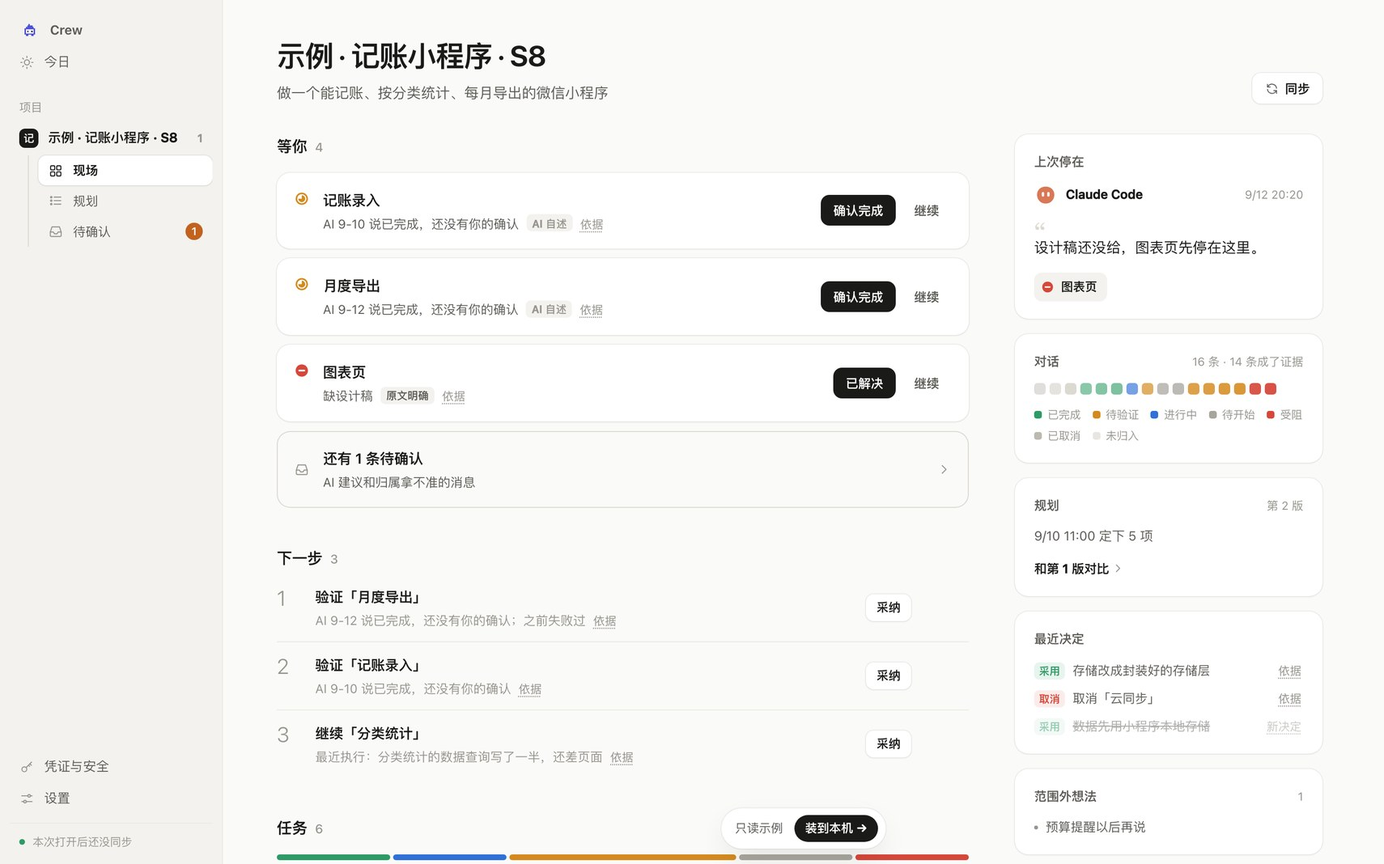
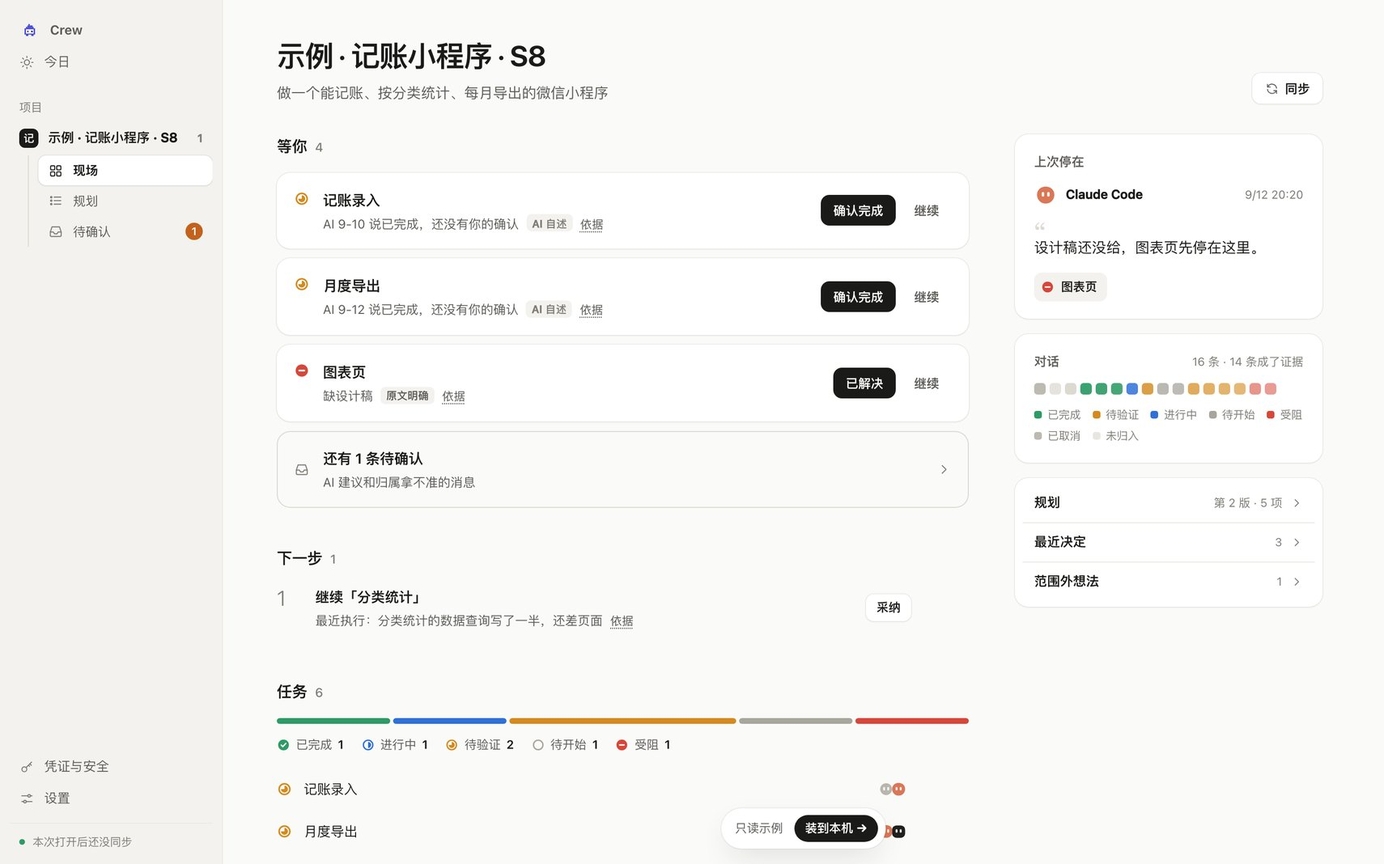
fix(web): one ask per task, quieter dock, readable secondary text
- overview: next steps skip tasks already waiting on you; plan, decisions and ideas fold into one card
- team dock: hidden on today/settings/new; idle members show only avatars, state text only when someone needs you
- raise --ink-3 contrast in light and dark; reasons and evidence links use --ink-2
- task page: 确认完成 is the primary action for to-verify tasks
- team page: before start, only the goal and start button
- workspace: no toolbar or session chrome until a directory or session exists
- settings: unbound directories show name first, one bind target, extra rows folded
- plan/inbox: no repeated AI labels; short inbox actions sit inline
- today: no duplicate no-source notice; security: usage notes folded
- board: selected row keeps a visible action button

diff --git a/web/app.js b/web/app.js
@@ -191,7 +191,8 @@ async function load() {
   else if (r.page === 'inbox') main.innerHTML = renderInbox();
   else main.innerHTML = renderOverview();
   const dock = document.getElementById('crew-team-dock');
-  dock.hidden = STATIC || !data || r.page === 'today'; document.body.classList.toggle('crew-has-team-dock', !dock.hidden);
+  // 团队栏只跟着项目页走；今日、设置、新建项目页不显示
+  dock.hidden = STATIC || !data || ['today', 'settings', 'new'].includes(r.page) || !app.projects.length; document.body.classList.toggle('crew-has-team-dock', !dock.hidden);
   if (!dock.hidden) unmountDock = mountTeamDock(dock, { projectId: pid, api, toast });
   drawBand();
 }
@@ -267,7 +268,9 @@ function renderOverview() {
   const needs = [...byStatus('to_verify'), ...byStatus('blocked')];
   const active = view.tasks.filter((t) => t.status !== 'cancelled').sort((a, b) => ORDER.indexOf(a.status) - ORDER.indexOf(b.status));
   const cancelled = byStatus('cancelled');
-  const next = view.next.filter((n) => !later.has(n.key));
+  // 已经在「等你」里的任务不再出现在下一步，同一件事只问一次
+  const asked = new Set(needs.map((t) => t.id));
+  const next = view.next.filter((n) => !later.has(n.key) && !asked.has(n.taskId));
   const today = new Date().toDateString();
   const doneToday = view.doneEvents.filter((d) => new Date(d.at).toDateString() === today).length;
   const pending = view.pending.length;
@@ -314,12 +317,11 @@ function renderOverview() {
         ${lastTask ? `<a class="who-task" href="#/p/${pid}/task/${esc(short(lastTask.id))}">${stIcon(lastTask.status)}${esc(lastTask.name)}</a>` : ''}
       </section>` : ''}
       ${bandHtml()}
-      <section class="card">
-        <h3 class="card-h">规划${plan ? `<span class="card-r">第 ${plan.n} 版${plan.backfilled ? ' · 后补' : ''}</span>` : ''}</h3>
-        ${plan ? `<p class="card-p">${fmt(plan.at)} 定下 ${plan.items.filter((it) => it.change !== 'cancelled').length} 项</p><a class="go" href="#/p/${pid}/plan">${view.plan.versions.length > 1 ? `和第 1 版对比` : '查看规划'}${ic('chev')}</a>` : `<p class="card-p">读到的记录里没有明确规划</p><a class="go" href="#/p/${pid}/plan">补建规划${ic('chev')}</a>`}
+      <section class="card notes">
+        <a class="note-row" href="#/p/${pid}/plan"><span>规划</span><span class="card-r">${plan ? `第 ${plan.n} 版${plan.backfilled ? ' · 后补' : ''} · ${plan.items.filter((it) => it.change !== 'cancelled').length} 项` : '还没有'}</span>${ic('chev')}</a>
+        ${view.decisions.length ? `<details class="note-more"><summary><span>最近决定</span><span class="card-r">${Math.min(view.decisions.length, 5)}</span>${ic('chev')}</summary><ul class="decs">${view.decisions.slice(-5).reverse().map((d) => `<li class="${d.supersededBy ? 'old' : ''}"><span class="dk dk-${d.kind}">${d.kind === 'adopt' ? '采用' : d.kind === 'reject' ? '否决' : '取消'}</span><span class="dt" title="原因：${esc(d.reason ?? '原文未说明')}">${esc(d.text)}</span>${d.supersededBy ? evLink(d.supersededBy, '新决定') : evLink(d.evidenceId)}</li>`).join('')}</ul></details>` : ''}
+        ${view.ideas.length ? `<details class="note-more"><summary><span>范围外想法</span><span class="card-r">${view.ideas.length}</span>${ic('chev')}</summary><ul class="ideas">${view.ideas.slice(-3).map((x) => `<li>${esc(x.text)}</li>`).join('')}</ul></details>` : ''}
       </section>
-      ${view.decisions.length ? `<section class="card"><h3 class="card-h">最近决定</h3><ul class="decs">${view.decisions.slice(-5).reverse().map((d) => `<li class="${d.supersededBy ? 'old' : ''}"><span class="dk dk-${d.kind}">${d.kind === 'adopt' ? '采用' : d.kind === 'reject' ? '否决' : '取消'}</span><span class="dt" title="原因：${esc(d.reason ?? '原文未说明')}">${esc(d.text)}</span>${d.supersededBy ? evLink(d.supersededBy, '新决定') : evLink(d.evidenceId)}</li>`).join('')}</ul></section>` : ''}
-      ${view.ideas.length ? `<section class="card"><h3 class="card-h">范围外想法<span class="card-r">${view.ideas.length}</span></h3><ul class="ideas">${view.ideas.slice(-3).map((x) => `<li>${esc(x.text)}</li>`).join('')}</ul></section>` : ''}
     </aside>
   </div>`;
 }
@@ -399,7 +401,7 @@ function renderTask(shortId) {
   <header class="th">
     <div class="th-meta">${chip(t.status)}<span class="th-id">${esc(short(t.id))}</span></div>
     <h1>${esc(t.name)}</h1>
-    <div class="th-a"><button class="btn pri" data-act="cont" data-task="${esc(t.id)}">继续任务</button>${t.status !== 'done' && t.status !== 'cancelled' ? `<button class="btn" data-act="confirm-done" data-task="${esc(t.id)}">确认完成</button>` : ''}</div>
+    <div class="th-a">${t.status === 'to_verify' ? `<button class="btn pri" data-act="confirm-done" data-task="${esc(t.id)}">确认完成</button><button class="btn" data-act="cont" data-task="${esc(t.id)}">继续任务</button>` : `<button class="btn pri" data-act="cont" data-task="${esc(t.id)}">继续任务</button>${t.status !== 'done' && t.status !== 'cancelled' ? `<button class="btn" data-act="confirm-done" data-task="${esc(t.id)}">确认完成</button>` : ''}`}</div>
   </header>
   <div class="td">
     <div class="td-main">
@@ -463,7 +465,7 @@ function renderPlan() {
       <div class="ver-ev">${v.evidenceIds.map((id, k) => evLink(id, `依据 ${k + 1}`)).join('')}</div></section>`).join('')}</div>`}
     <section class="sec">
       <h2 class="sec-h">AI 建议<span class="n">${sugg.length}</span><span class="sec-note">你确认前不进范围</span></h2>
-      ${sugg.length ? `<div class="rows">${sugg.map((s) => `<div class="rowi"><span class="basis b-ai">AI 建议</span><span class="rowi-t">${esc(s.text)}${evLink(s.evidenceId)}</span><span class="rowi-a"><button class="btn sm" data-act="sug-accept" data-task="${esc(s.taskId)}" data-ev="${esc(s.evidenceId)}">纳入</button><button class="btn ghost sm" data-act="ack" data-ev="${esc(s.evidenceId)}">忽略</button></span></div>`).join('')}</div>` : '<p class="none">没有</p>'}
+      ${sugg.length ? `<div class="rows">${sugg.map((s) => `<div class="rowi sg"><span class="rowi-t">${esc(s.text)}${evLink(s.evidenceId)}</span><span class="rowi-a"><button class="btn sm" data-act="sug-accept" data-task="${esc(s.taskId)}" data-ev="${esc(s.evidenceId)}">纳入</button><button class="btn ghost sm" data-act="ack" data-ev="${esc(s.evidenceId)}">忽略</button></span></div>`).join('')}</div>` : '<p class="none">没有</p>'}
     </section>`;
 }
 
@@ -471,7 +473,7 @@ function renderPlan() {
 function renderInbox() {
   const { view, failed } = app.data;
   const opts = view.tasks.map((t) => `<option value="${esc(t.id)}">${esc(t.name)}</option>`).join('');
-  const card = (kind, title, body, actions, note = '') => `<article class="card inbox-i k-${kind}"><div class="inbox-k">${title}</div><div class="inbox-t">${body}</div><div class="inline wrap">${actions}</div>${note ? `<p class="s">${note}</p>` : ''}</article>`;
+  const card = (kind, title, body, actions, note = '') => `<article class="card inbox-i k-${kind}${kind === 'unknown' ? '' : ' row'}"><div class="inbox-k">${title}</div><div class="inbox-t">${body}</div><div class="inline wrap">${actions}</div>${note ? `<p class="s">${note}</p>` : ''}</article>`;
   const item = (p) => {
     const text = `${esc(p.text)}${evLink(p.evidenceId)}`;
     if (p.kind === 'unknown_task') return card('unknown', '归属拿不准', text, `${opts ? `<select id="as-${esc(p.evidenceId)}">${opts}</select><button class="btn" data-act="assign" data-ev="${esc(p.evidenceId)}">归入</button>` : ''}<input type="text" id="nt-${esc(p.evidenceId)}" placeholder="或者起个新任务名"><button class="btn" data-act="new-task" data-ev="${esc(p.evidenceId)}">设为新任务</button><button class="btn ghost" data-act="ack" data-ev="${esc(p.evidenceId)}">忽略</button>`);
@@ -485,6 +487,14 @@ function renderInbox() {
 }
 
 // ---------- 设置 ----------
+function dirRows(dirs, canBind) {
+  return `<div class="rows">${dirs.map(([dir, n]) => {
+    const cut = dir.replace(/\/+$/, '').lastIndexOf('/');
+    const name = dir.slice(cut + 1) || dir, parent = cut > 0 ? dir.slice(0, cut) : '/';
+    return `<div class="dir-row"><div class="dir-n" title="${esc(dir)}"><b>${esc(name)}</b><span>${esc(parent)}</span></div><span class="dir-c">${n} 个会话</span>${canBind ? `<button class="btn sm" data-act="bind" data-dir="${esc(dir)}">绑定</button>` : ''}</div>`;
+  }).join('')}</div>`;
+}
+
 async function renderSettings() {
   const s = await api('/api/sources');
   const status = (src) => (!src.installed ? '<span class="dot d-off"></span>没装' : src.sessions ? `<span class="dot d-ok"></span>已读到` : '<span class="dot d-off"></span>还没读到');
@@ -505,8 +515,9 @@ async function renderSettings() {
     ${project && !STATIC ? `<section class="sec"><h2 class="sec-h">工作目录<span class="sec-note">${esc(project.name)}</span></h2>
       ${project.dirs.length ? `<ul class="dirs">${project.dirs.map((d) => `<li><code>${esc(d)}</code></li>`).join('')}</ul>` : ''}
       <div class="inline"><input id="crew-bind-dir" placeholder="/path/to/project" aria-label="本机目录（绝对路径）"><button class="btn" data-act="bind-workspace">绑定并打开终端</button></div></section>` : ''}
-    ${s.skippedDirs.length ? `<section class="sec"><h2 class="sec-h">没绑定的目录<span class="n">${s.skippedDirs.length}</span><span class="sec-note">里面有对话，但还没归到项目</span></h2>
-      <div class="rows">${s.skippedDirs.map(([dir, n], i) => `<div class="rowi"><code class="rowi-t">${esc(dir)}</code><span class="s">${n} 个会话</span><span class="rowi-a">${projectOpts ? `<select id="bd-${i}" aria-label="绑定到项目">${projectOpts}</select><button class="btn sm" data-act="bind" data-dir="${esc(dir)}" data-i="${i}">绑定</button>` : ''}</span></div>`).join('')}</div></section>` : ''}
+    ${s.skippedDirs.length ? `<section class="sec"><h2 class="sec-h">没绑定的目录<span class="n">${s.skippedDirs.length}</span>${projectOpts ? `<label class="sec-note bd-to">绑定到<select id="bd-target" aria-label="绑定到项目">${projectOpts}</select></label>` : ''}</h2>
+      <p class="sec-sub">这些目录里有对话，还没归到任何项目</p>
+      ${dirRows(s.skippedDirs.slice(0, 5), !!projectOpts)}${s.skippedDirs.length > 5 ? `<details class="fold"><summary>其余 ${s.skippedDirs.length - 5} 个</summary>${dirRows(s.skippedDirs.slice(5), !!projectOpts)}</details>` : ''}</section>` : ''}
     <section class="sec"><h2 class="sec-h">导入网页 AI 的对话</h2>
       <div class="grid2">
         <div class="card form-card"><h3 class="card-h">粘贴</h3>
@@ -741,7 +752,7 @@ const on = {
   },
   role(el) { $('#drawer').hidden = true; return correct({ type: 'set_role', messageId: el.dataset.msg, role: el.dataset.role }, '发言者已改正，结论已重新计算'); },
   async bind(el) {
-    const pid = $(`#bd-${el.dataset.i}`).value;
+    const pid = $('#bd-target').value;
     await api(`/api/projects/${pid}/dirs`, { method: 'POST', body: { dir: el.dataset.dir } });
     toast('已绑定，点“同步”读取这个目录的对话');
     await load();

diff --git a/web/style.css b/web/style.css
@@ -1,7 +1,7 @@
 /* Crew · 安静的工作台：系统字体、靠字号和留白分层级，状态用形状，Agent 用会动的头像 */
 :root{
   --ground:#FAFAF8; --side:#F3F2EE; --surface:#FFFFFF; --surface-2:#F3F2EE;
-  --ink:#1A1A18; --ink-2:#5D5C57; --ink-3:#97958E;
+  --ink:#1A1A18; --ink-2:#5D5C57; --ink-3:#7E7C75;
   --rule:#ECEAE4; --rule-2:#DCD9D1;
   --accent:#1A1A18; --accent-ink:#FFFFFF; --accent-soft:#EFEEE9;
   --pri:#1A1A18; --pri-ink:#FFFFFF; --attn:#C2621E;
@@ -18,7 +18,7 @@
 @media (prefers-color-scheme:dark){
   :root{
     --ground:#141413; --side:#191918; --surface:#1F1F1E; --surface-2:#272725;
-    --ink:#ECEBE6; --ink-2:#A8A69F; --ink-3:#73716B;
+    --ink:#ECEBE6; --ink-2:#A8A69F; --ink-3:#8E8C85;
     --rule:#2A2A28; --rule-2:#3A3A37;
     --accent:#ECEBE6; --accent-ink:#141413; --accent-soft:#2A2A28;
     --pri:#ECEBE6; --pri-ink:#141413; --attn:#E8894A;
@@ -114,7 +114,7 @@ time,.n,.cnt,.ph-time{font-variant-numeric:tabular-nums}
 .icon-btn:hover{background:var(--surface-2);color:var(--ink)}
 .link{background:none;border:0;padding:0;color:var(--ink-2);cursor:pointer;font-size:12.5px;font-weight:550;white-space:nowrap;text-decoration:underline;text-decoration-color:var(--rule-2);text-underline-offset:3px}
 .link:hover{color:var(--ink);text-decoration-color:currentColor}
-.ev{background:none;border:0;padding:0 2px;margin-left:6px;color:var(--ink-3);cursor:pointer;font-size:12px;text-decoration:underline dotted;text-underline-offset:3px;white-space:nowrap}
+.ev{background:none;border:0;padding:0 2px;margin-left:6px;color:var(--ink-2);cursor:pointer;font-size:12px;text-decoration:underline dotted;text-underline-offset:3px;white-space:nowrap}
 .ev:hover{color:var(--ink)}
 input[type=text],input[type=date],input[type=search],input:not([type]),select,textarea{height:34px;background:var(--surface);border:0;box-shadow:inset 0 0 0 1px var(--rule-2);border-radius:9px;padding:0 11px;max-width:100%;font-size:13.5px;min-width:0}
 input:focus,select:focus,textarea:focus{outline:none;box-shadow:inset 0 0 0 1.5px var(--ink)}
@@ -198,7 +198,7 @@ label{display:grid;gap:6px;font-size:12.5px;color:var(--ink-2)}
 .nx:first-child{border-top:0;padding-top:2px}
 .nx-no{font-size:22px;font-weight:300;color:var(--ink-3);line-height:1;align-self:start;padding-top:2px;font-variant-numeric:tabular-nums}
 .nx-t{font-size:14.5px;font-weight:600}
-.nx-d{display:flex;align-items:baseline;min-width:0;margin-top:2px;font-size:13px;color:var(--ink-3)}
+.nx-d{display:flex;align-items:baseline;min-width:0;margin-top:2px;font-size:13px;color:var(--ink-2)}
 .trunc{min-width:0;overflow:hidden;text-overflow:ellipsis;white-space:nowrap}
 .nx-a{display:flex;align-items:center;gap:2px}
 .nx-a .icon-btn{opacity:0;transition:opacity .15s}
@@ -250,6 +250,15 @@ label{display:grid;gap:6px;font-size:12.5px;color:var(--ink-2)}
 .dt{flex:1;min-width:0;overflow:hidden;text-overflow:ellipsis;white-space:nowrap;color:var(--ink-2)}
 .ideas li{color:var(--ink-2);padding-left:12px;position:relative}
 .ideas li::before{content:"";position:absolute;left:0;top:.65em;width:4px;height:4px;border-radius:50%;background:var(--ink-3)}
+/* 规划、决定、想法收在一张卡里，一行一项，点开才看内容 */
+.notes{padding:6px 8px}
+.note-row,.note-more>summary{display:flex;align-items:center;gap:8px;min-height:40px;padding:0 12px;border-radius:9px;font-size:13.5px;font-weight:550;cursor:pointer;list-style:none}
+.note-more>summary::-webkit-details-marker{display:none}
+.note-row:hover,.note-more>summary:hover{background:var(--surface-2)}
+.note-row .ic,.note-more>summary .ic{width:14px;height:14px;color:var(--ink-3);transition:transform .2s}
+.note-more[open]>summary .ic{transform:rotate(90deg)}
+.note-more>ul{padding:4px 12px 12px}
+.notes>*+*{border-top:1px solid var(--rule)}
 
 /* ---------- 任务详情 ---------- */
 .back{display:inline-flex;align-items:center;gap:2px;margin:0 0 18px -4px;font-size:13px;color:var(--ink-3)}
@@ -295,8 +304,8 @@ label{display:grid;gap:6px;font-size:12.5px;color:var(--ink-2)}
 
 /* ---------- 规划 ---------- */
 .versions{display:grid;grid-template-columns:repeat(auto-fill,minmax(280px,1fr));gap:16px;margin-bottom:40px}
-.ver-card{opacity:.8}
-.ver-card.cur{opacity:1;box-shadow:var(--shadow-2)}
+.ver-card.cur{box-shadow:var(--shadow-2)}
+.ver-card:not(.cur) .ver-h{color:var(--ink-2)}
 .ver-h{display:flex;align-items:center;gap:8px;margin-bottom:14px;font-size:15px}
 .ver-h time{margin-left:auto;font-size:12px;color:var(--ink-3)}
 .ver{list-style:none;margin:0;padding:0;display:grid;gap:2px}
@@ -316,6 +325,7 @@ label{display:grid;gap:6px;font-size:12.5px;color:var(--ink-2)}
 .rowi-a{display:flex;gap:6px;align-items:center}
 .rowi-a select{height:28px;font-size:12.5px}
 .checks{display:grid;gap:8px}
+.rowi.sg{grid-template-columns:minmax(0,1fr) auto}
 
 /* ---------- 待确认 ---------- */
 .inbox{display:grid;gap:12px;max-width:820px}
@@ -324,6 +334,10 @@ label{display:grid;gap:6px;font-size:12.5px;color:var(--ink-2)}
 .k-ai .inbox-k::before{background:var(--doing)} .k-conflict .inbox-k::before{background:var(--verify)} .k-unknown .inbox-k::before{background:var(--todo)}
 .inbox-t{margin-top:8px;font-size:14.5px;line-height:1.6}
 .inbox-i .inline{margin-top:14px}
+.inbox-i.row{display:grid;grid-template-columns:minmax(0,1fr) auto;column-gap:20px;align-items:center}
+.inbox-i.row>.inline{grid-column:2;grid-row:1/3;margin:0;flex-wrap:nowrap}
+.inbox-i.row>.s{grid-column:1/-1}
+@media (max-width:640px){.inbox-i.row{grid-template-columns:minmax(0,1fr)}.inbox-i.row>.inline{grid-column:1;grid-row:auto;margin-top:12px}}
 .inbox-i .s{margin:10px 0 0}
 
 /* ---------- 设置 ---------- */
@@ -336,6 +350,18 @@ label{display:grid;gap:6px;font-size:12.5px;color:var(--ink-2)}
 .src-st{font-size:12.5px;color:var(--ink-2);white-space:nowrap}
 .dirs{list-style:none;margin:0;padding:0;display:grid;gap:6px}
 .dirs code{font-size:12.5px;color:var(--ink-2)}
+.sec-sub{margin:-8px 0 10px;font-size:13px;color:var(--ink-3)}
+.bd-to{display:inline-flex;align-items:center;gap:8px}
+.bd-to select{height:28px;font-size:12.5px}
+.dir-row{display:grid;grid-template-columns:minmax(0,1fr) 84px auto;gap:12px;align-items:center;min-height:52px;padding:6px 0;border-top:1px solid var(--rule)}
+.dir-row:first-child{border-top:0}
+.dir-n{display:flex;flex-direction:column;min-width:0;line-height:1.4}
+.dir-n b{font-size:14px;font-weight:550;overflow:hidden;text-overflow:ellipsis;white-space:nowrap}
+.dir-n span{font-size:12px;color:var(--ink-3);overflow:hidden;text-overflow:ellipsis;white-space:nowrap}
+.dir-c{font-size:12.5px;color:var(--ink-3);text-align:right;font-variant-numeric:tabular-nums}
+.dir-row .btn{opacity:0;transition:opacity .15s}
+.dir-row:hover .btn,.dir-row:focus-within .btn{opacity:1}
+@media (hover:none){.dir-row .btn{opacity:1}}
 .ctl{display:flex;align-items:center;justify-content:space-between;gap:16px;padding:14px 0;border-top:1px solid var(--rule)}
 .ctl:first-child{border-top:0;padding-top:2px}
 .ctl:last-child{padding-bottom:2px}

diff --git a/web/team-dock.js b/web/team-dock.js
@@ -67,7 +67,7 @@ export function mountTeamDock(root, { projectId, api, toast = () => {} }) {
   function render() {
     if (disposed) return;
     const progress = teamProgress(snapshot, live), list = dockMembers(snapshot, live);
-    count.textContent = progress.label; fill.style.width = `${progress.ratio * 100}%`; track.setAttribute('aria-valuemin', '0'); track.setAttribute('aria-valuemax', String(progress.total || 1)); track.setAttribute('aria-valuenow', String(progress.accepted)); track.hidden = !progress.total;
+    count.textContent = progress.label; fill.style.width = `${progress.ratio * 100}%`; track.setAttribute('aria-valuemin', '0'); track.setAttribute('aria-valuemax', String(progress.total || 1)); track.setAttribute('aria-valuenow', String(progress.accepted)); track.hidden = !progress.total; summary.hidden = !snapshot.run;
     root.dataset.live = String(live); root.dataset.status = snapshot.status;
     for (const [id, button] of buttons) if (!list.some(a => a.id === id)) { button.remove(); buttons.delete(id); }
     for (const [i, a] of list.entries()) {
@@ -79,7 +79,7 @@ export function mountTeamDock(root, { projectId, api, toast = () => {} }) {
       }
       if (members.children[i] !== button) members.insertBefore(button, members.children[i] || null);
       button.querySelector('.crew-dock-name').textContent = a.name; button.querySelector('.crew-dock-state').textContent = a.label;
-      button.dataset.state = live ? a.state : 'unknown'; const face = button.querySelector('.av'); if (face) face.dataset.mood = mood(button.dataset.state); button.setAttribute('aria-expanded', String(expanded && selected === a.id)); button.setAttribute('aria-controls', panel.id);
+      button.dataset.state = live ? a.state : 'unknown'; button.title = `${a.name} · ${a.label}`; const face = button.querySelector('.av'); if (face) face.dataset.mood = mood(button.dataset.state); button.setAttribute('aria-expanded', String(expanded && selected === a.id)); button.setAttribute('aria-controls', panel.id);
     }
     const a = list.find(a => a.id === selected); panel.hidden = !expanded || !a;
     if (!a) return;

diff --git a/web/team-dock.css b/web/team-dock.css
@@ -6,9 +6,10 @@
 .crew-dock-member{display:flex;align-items:center;gap:7px;height:34px;padding:0 12px 0 6px;border:0;border-radius:999px;background:transparent;color:var(--ink);font:inherit;cursor:pointer;white-space:nowrap}
 .crew-dock-member:hover,.crew-dock-member[aria-expanded=true]{background:var(--surface-2)}
 .crew-dock-name{font-weight:600}
-.crew-dock-state{color:var(--ink-3);font-size:12px}
-.crew-dock-member[data-state=waiting_approval] .crew-dock-state,.crew-dock-member[data-state=waiting_input] .crew-dock-state{color:var(--attn);font-weight:550}
-.crew-dock-member[data-state=failed] .crew-dock-state{color:var(--block)}
+/* 平时只有头像和名字，状态靠头像表情；要人处理或出错时才把状态写出来 */
+.crew-dock-state{display:none;font-size:12px}
+.crew-dock-member[data-state=waiting_approval] .crew-dock-state,.crew-dock-member[data-state=waiting_input] .crew-dock-state{display:inline;color:var(--attn);font-weight:550}
+.crew-dock-member[data-state=failed] .crew-dock-state{display:inline;color:var(--block)}
 .crew-dock-summary{display:flex;align-items:center;gap:8px;padding:0 10px 0 12px;border-left:1px solid var(--rule);height:22px;color:var(--ink-3);white-space:nowrap}
 .crew-dock-track{width:56px;height:4px;border-radius:2px;background:var(--rule);overflow:hidden}
 .crew-dock-track span{display:block;height:100%;background:var(--done);border-radius:2px}
@@ -34,4 +35,4 @@
 .crew-dock-inputs input,.crew-dock-inputs select{display:block;width:100%;margin-top:5px}
 .crew-team-dock[hidden],.crew-team-dock [hidden]{display:none!important}
 body.crew-has-team-dock .main{padding-bottom:110px}
-@media(max-width:820px){.crew-team-dock{left:0;bottom:10px;padding:0 10px}.crew-dock-summary{display:none}.crew-dock-state{display:none}.crew-dock-member{padding:0 8px 0 6px}}
+@media(max-width:820px){.crew-team-dock{left:0;bottom:10px;padding:0 10px}.crew-dock-summary{display:none}.crew-dock-member{padding:0 8px 0 6px}}

diff --git a/web/today.js b/web/today.js
@@ -36,7 +36,7 @@ export function mountToday(root, { api, staticDemo = false } = {}) {
     const shared = Object.fromEntries(fields.map(([key]) => [key, sharedValue(items, key)]));
     const notes = fields.filter(([key]) => shared[key] !== undefined && !empty(items[0], key)).map(([key, label]) => `${label}：${escape(shared[key])}`);
     return `<section class="today-group sec"><h2 class="sec-h">${title}<span class="n">${items.length}</span></h2>
-    ${notes.length ? `<p class="today-shared">本组相同 · ${notes.join(' · ')}</p>` : ''}
+    ${notes.length ? `<p class="today-shared">${notes.join(' · ')}</p>` : ''}
     ${!items.length ? `<p class="none">${none}</p>` : cards ? `<div class="today-cards">${items.map((item, index) => card(item, index, shared)).join('')}</div>`
       : `<div class="today-rows">${items.map(item => row(item, shared)).join('')}</div>`}</section>`;
   };
@@ -83,7 +83,8 @@ export function mountToday(root, { api, staticDemo = false } = {}) {
         feedback(`${error.message || '来源暂时无法读取'}。${savedError.message || '已保存的快照也无法读取'}`);
         return;
       }
-      feedback(error.status === 409 ? error.message : `${error.message || '来源暂时无法读取'}。当前显示已保存的内容，请留意快照更新时间。`);
+      // 没配外部来源时页面上已有一条横幅说明，不再重复一遍
+      feedback(error.status === 409 ? (data?.source.configured === false ? '' : error.message) : `${error.message || '来源暂时无法读取'}。当前显示已保存的内容，请留意快照更新时间。`);
     }
   }
   async function run(action) {

diff --git a/web/security.js b/web/security.js
@@ -67,7 +67,7 @@ export function mountSecurity(root, { projectId, projectName, api, staticDemo = 
       <button class="btn" data-security="refresh" ${busy?'disabled':''}>刷新状态</button>
       ${nativeAvailable ? `<button class="btn" data-security="input" ${busy || active?'disabled':''}>添加火山方舟凭证</button>` : ''}
       ${catalog?.localStore?.usage === 'unavailable' ? '<p>使用记录暂不可读取。</p>' : ''}
-      ${credentials.length ? `<h2>钥匙<span class="s"> ${e(credentials.length)} 把</span></h2>${instructions.map(text => `<p>${e(text)}</p>`).join('')}` : ''}
+      ${credentials.length ? `<h2>钥匙<span class="s"> ${e(credentials.length)} 把</span></h2>${instructions.length ? `<details class="security-howto"><summary>怎么取用</summary>${instructions.map(text => `<p>${e(text)}</p>`).join('')}</details>` : ''}` : ''}
       <ul class="security-keys">${credentials.map(c=>`<li><strong>${e(c.name)}</strong><code>${c.environmentVariables.map(e).join('、')}</code>${c.storage === 'macos-keychain' && !c.runnable ? '<span>本地钥匙串 · 已保存，待接入授权使用</span>' : ''}${c.usage ? `<span>${usageLine(c.usage, e)}</span>` : ''}${inactivityLine(c,catalog,e)}${nativeAvailable && c.canProbe && c.storage !== 'macos-keychain' ? `<button class="btn" data-security="probe" data-id="${e(c.id)}" ${busy || active?'disabled':''}>检测授权取用</button>` : ''}</li>`).join('')}</ul>
       ${recentUsageView(catalog?.recentUsage,e)}
       ${nativeAvailable ? '<p>检测授权取用仅离线检测变量是否存在，不验证 Key，也不连接服务。</p>' : ''}

diff --git a/web/workspace.js b/web/workspace.js
@@ -63,6 +63,7 @@ export function mountWorkspace(root, { projectId, projectName, dirs = [], api, t
   if (!directory.options.length) {
     directory.append(node('option', '', '请先绑定项目目录'));
     directory.disabled = true;
+    $('.crew-toolbar').hidden = true;
     $('.crew-empty h2').textContent = '先为项目绑定工作目录';
     $('.crew-empty p').textContent = '在接入设置中绑定本机目录，然后回到这里启动会话。';
     const link = node('a', 'btn', '前往接入设置'); link.href = '#/settings'; $('.crew-empty').append(link);
@@ -137,6 +138,8 @@ export function mountWorkspace(root, { projectId, projectName, dirs = [], api, t
     }
     root.querySelectorAll('[data-layout]').forEach(button => button.setAttribute('aria-pressed', String(button.dataset.layout === layout)));
     $('.crew-empty').hidden = sessions.size > 0;
+    // 没有会话时，会话栏、搜索和布局切换都没东西可管，先收起来
+    $('.crew-session-bar').hidden = $('.crew-session-search').hidden = sessions.size === 0;
     $('.crew-count').textContent = loaded ? `${sessions.size} 个会话 · ${selected.length} 个显示` : '正在读取…';
     filterTabs();
     savePreferences();

diff --git a/web/team.js b/web/team.js
@@ -141,6 +141,10 @@ export function mountTeam(root, { projectId, projectName, dirs = [], api, toast 
     $('.team-stage-note').textContent = nativeTeam ? '负责人负责拆分与验收。底部团队栏可查看每位原生成员的任务、活动和成果。' : '选择工牌，向该成员发送消息。选择连接，查看双方交流。';
     $('.team-start').textContent = action === 'start' ? '正在启动…' : snapshot.status === 'stopped' ? '重新启动' : '启动团队';
     $('.team-stop').disabled = !!action || !live || !['starting', 'running', 'error'].includes(snapshot.status);
+    // 还没启动、也没有消息时，只留目标和启动；对话区与停止按钮等团队真的跑起来再出现
+    const fresh = !snapshot.run && !snapshot.messages.length && ['idle', 'stopped'].includes(snapshot.status);
+    $('.team-stop').hidden = !['starting', 'running', 'error'].includes(snapshot.status) && action !== 'stop';
+    $('.team-conversation').hidden = fresh;
     $('.team-stop').textContent = action === 'stop' ? '正在停止…' : '停止团队';
     for (const [id, card] of cards) {
       const member = snapshot.members.find(m => m.id === id) || { id, connection: 'disconnected' };

diff --git a/tests/today-ui.test.ts b/tests/today-ui.test.ts
@@ -72,7 +72,7 @@ test('unconfigured source keeps local tasks visible and does not suggest an unav
   await f.flush();
   assert.match(f.html(), /本地待办/);
   assert.match(f.html(), /尚未配置外部任务来源，仅展示 Crew 本地任务/);
-  assert.match(f.feedback.textContent, /尚未配置/);
+  assert.doesNotMatch(f.feedback.textContent, /尚未配置/); // 横幅已经说了，不再在提示条里重复
   assert.doesNotMatch(f.html(), /请使用本地管家入口|打开此页时自动搜索并保存快照/);
   f.unmount();
 });
@@ -118,7 +118,7 @@ test('today has a global empty-state route and manual entry, without conversatio
   assert.match(app, /['"]#\/today['"]/);
   assert.ok(app.indexOf("if (r.page === 'today')") < app.indexOf("else if (!app.projects.length"));
   assert.match(app, /unmountToday\?\.\(\)/);
-  assert.match(app, /dock.hidden = .*r.page === 'today'/);
+  assert.match(app, /dock\.hidden = .*\['today', 'settings', 'new'\]\.includes\(r\.page\)/);
   const startup = app.slice(app.indexOf('const initialPage = parseHash().page;'));
   const parser = app.slice(app.indexOf('function parseHash()'), app.indexOf('async function load()'));
   let reads = 0, loads = 0;

diff --git a/web/security.css b/web/security.css
@@ -7,6 +7,10 @@
 .crew-security h2 .s{font-size:13px;font-weight:500}
 .crew-security h2+p{margin:-4px 0 12px;font-size:12.5px;color:var(--ink-3)}
 .crew-security [role="alert"]{color:var(--block)}
+.crew-security .security-howto{margin:-4px 0 12px;font-size:12.5px;color:var(--ink-2)}
+.crew-security .security-howto summary{display:inline-block;cursor:pointer;color:var(--ink-3)}
+.crew-security .security-howto summary:hover{color:var(--ink)}
+.crew-security .security-howto p{margin:6px 0 0;overflow-wrap:anywhere}
 .crew-security select{max-width:100%;margin-right:10px}
 .crew-security .security-keys{list-style:none;margin:0;padding:6px 20px;border-radius:var(--r);background:var(--surface);box-shadow:var(--shadow-1)}
 .crew-security .security-keys li{display:grid;grid-template-columns:minmax(150px,1.1fr) minmax(0,1.2fr) minmax(0,1.6fr);align-items:baseline;gap:4px 16px;margin:0;padding:11px 0;font-size:13px;overflow-wrap:anywhere}

diff --git a/web/task-board.css b/web/task-board.css
@@ -117,6 +117,7 @@ h1 { margin: 0; color: var(--ink); font-size: 22px; line-height: 1.3; font-weigh
 .status-badge.cancelled { color: var(--faint); }
 .task-actions button { min-height: 28px; padding: 3px 11px; border: 0; border-radius: 8px; background: var(--soft); color: var(--accent); font-size: 12px; line-height: 1.5; font-weight: 600; white-space: nowrap; }
 .task-actions button:not(:disabled):hover { background: var(--selected); color: var(--accent-strong); }
+.card.selected .task-actions button { background: var(--surface); box-shadow: var(--shadow-1); }
 .card.selected .task-actions button:not(:disabled):hover { background: var(--accent-hover); }
 .task-actions button:disabled { color: var(--faint); opacity: .65; }
 .archive { padding: 8px 21px 18px; }
